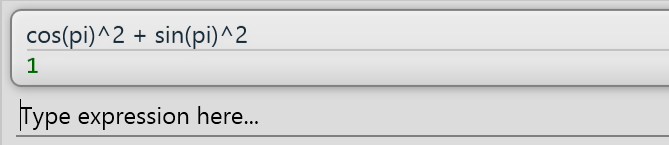
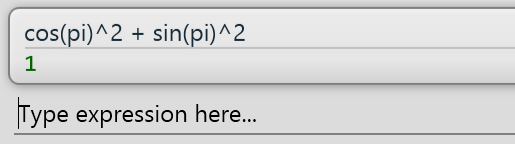
Some HowTo imagas have been added.

diff --git a/PowerCalc/Resources/Documents/HowTo/WorksheetEvaluateExpression.xaml b/PowerCalc/Resources/Documents/HowTo/WorksheetEvaluateExpression.xaml
@@ -35,6 +35,10 @@
         </ListItem>
     </List>
     <Paragraph>
-        <controls:ThemedImage Stretch="None" Source="/Resources/Documents/HowTo/Images/evaluate_expression.Grayscale.png" />
+        <controls:ThemedImage Stretch="None" Source="/Resources/Documents/HowTo/Images/evaluate_expression.Blue.png">
+            <controls:ThemedImage.LayoutTransform>
+                <ScaleTransform ScaleX="0.6" ScaleY="0.6" />
+            </controls:ThemedImage.LayoutTransform>
+        </controls:ThemedImage>
     </Paragraph>
 </FlowDocument>

diff --git a/PowerCalc/Resources/Documents/HowTo/WorksheetInputMatrix.xaml b/PowerCalc/Resources/Documents/HowTo/WorksheetInputMatrix.xaml
@@ -61,6 +61,10 @@
         </ListItem>
     </List>
     <Paragraph>
-        <controls:ThemedImage Stretch="None" Source="/Resources/Documents/HowTo/Images/input_matrix.Grayscale.png" />
+        <controls:ThemedImage Stretch="None" Source="/Resources/Documents/HowTo/Images/input_matrix.Blue.png">
+            <controls:ThemedImage.LayoutTransform>
+                <ScaleTransform ScaleX="0.6" ScaleY="0.6" />
+            </controls:ThemedImage.LayoutTransform>
+        </controls:ThemedImage>
     </Paragraph>
 </FlowDocument>

diff --git a/PowerCalc/Resources/Documents/HowTo/WorksheetInsertConstant.xaml b/PowerCalc/Resources/Documents/HowTo/WorksheetInsertConstant.xaml
@@ -32,6 +32,10 @@
     </List>
 
     <Paragraph>
-        <controls:ThemedImage Stretch="None" Source="/Resources/Documents/HowTo/Images/insert_constant.Grayscale.png" />
+        <controls:ThemedImage Stretch="None" Source="/Resources/Documents/HowTo/Images/insert_constant.Blue.png">
+            <controls:ThemedImage.LayoutTransform>
+                <ScaleTransform ScaleX="0.6" ScaleY="0.6" />
+            </controls:ThemedImage.LayoutTransform>
+        </controls:ThemedImage>
     </Paragraph>
 </FlowDocument>

diff --git a/PowerCalc/Resources/Documents/HowTo/WorksheetDefineVariable.xaml b/PowerCalc/Resources/Documents/HowTo/WorksheetDefineVariable.xaml
@@ -44,7 +44,7 @@
         </Span>
     </Paragraph>
     <Paragraph>
-        <controls:ThemedImage Stretch="None" Source="/Resources/Documents/HowTo/Images/define_variable.Blue.png" RenderOptions.BitmapScalingMode="HighQuality">
+        <controls:ThemedImage Stretch="None" Source="/Resources/Documents/HowTo/Images/define_variable.Blue.png">
             <controls:ThemedImage.LayoutTransform>
                 <ScaleTransform ScaleX="0.6" ScaleY="0.6" />
             </controls:ThemedImage.LayoutTransform>

diff --git a/PowerCalc/Resources/Documents/HowTo/WorksheetAddComments.xaml b/PowerCalc/Resources/Documents/HowTo/WorksheetAddComments.xaml
@@ -32,7 +32,7 @@
     </Paragraph>
     
     <Paragraph>
-        <controls:ThemedImage Stretch="None" Source="/Resources/Documents/HowTo/Images/add_comments.Blue.png" RenderOptions.BitmapScalingMode="HighQuality">
+        <controls:ThemedImage Stretch="None" Source="/Resources/Documents/HowTo/Images/add_comments.Blue.png">
             <controls:ThemedImage.LayoutTransform>
                 <ScaleTransform ScaleX="0.6" ScaleY="0.6" />
             </controls:ThemedImage.LayoutTransform>
